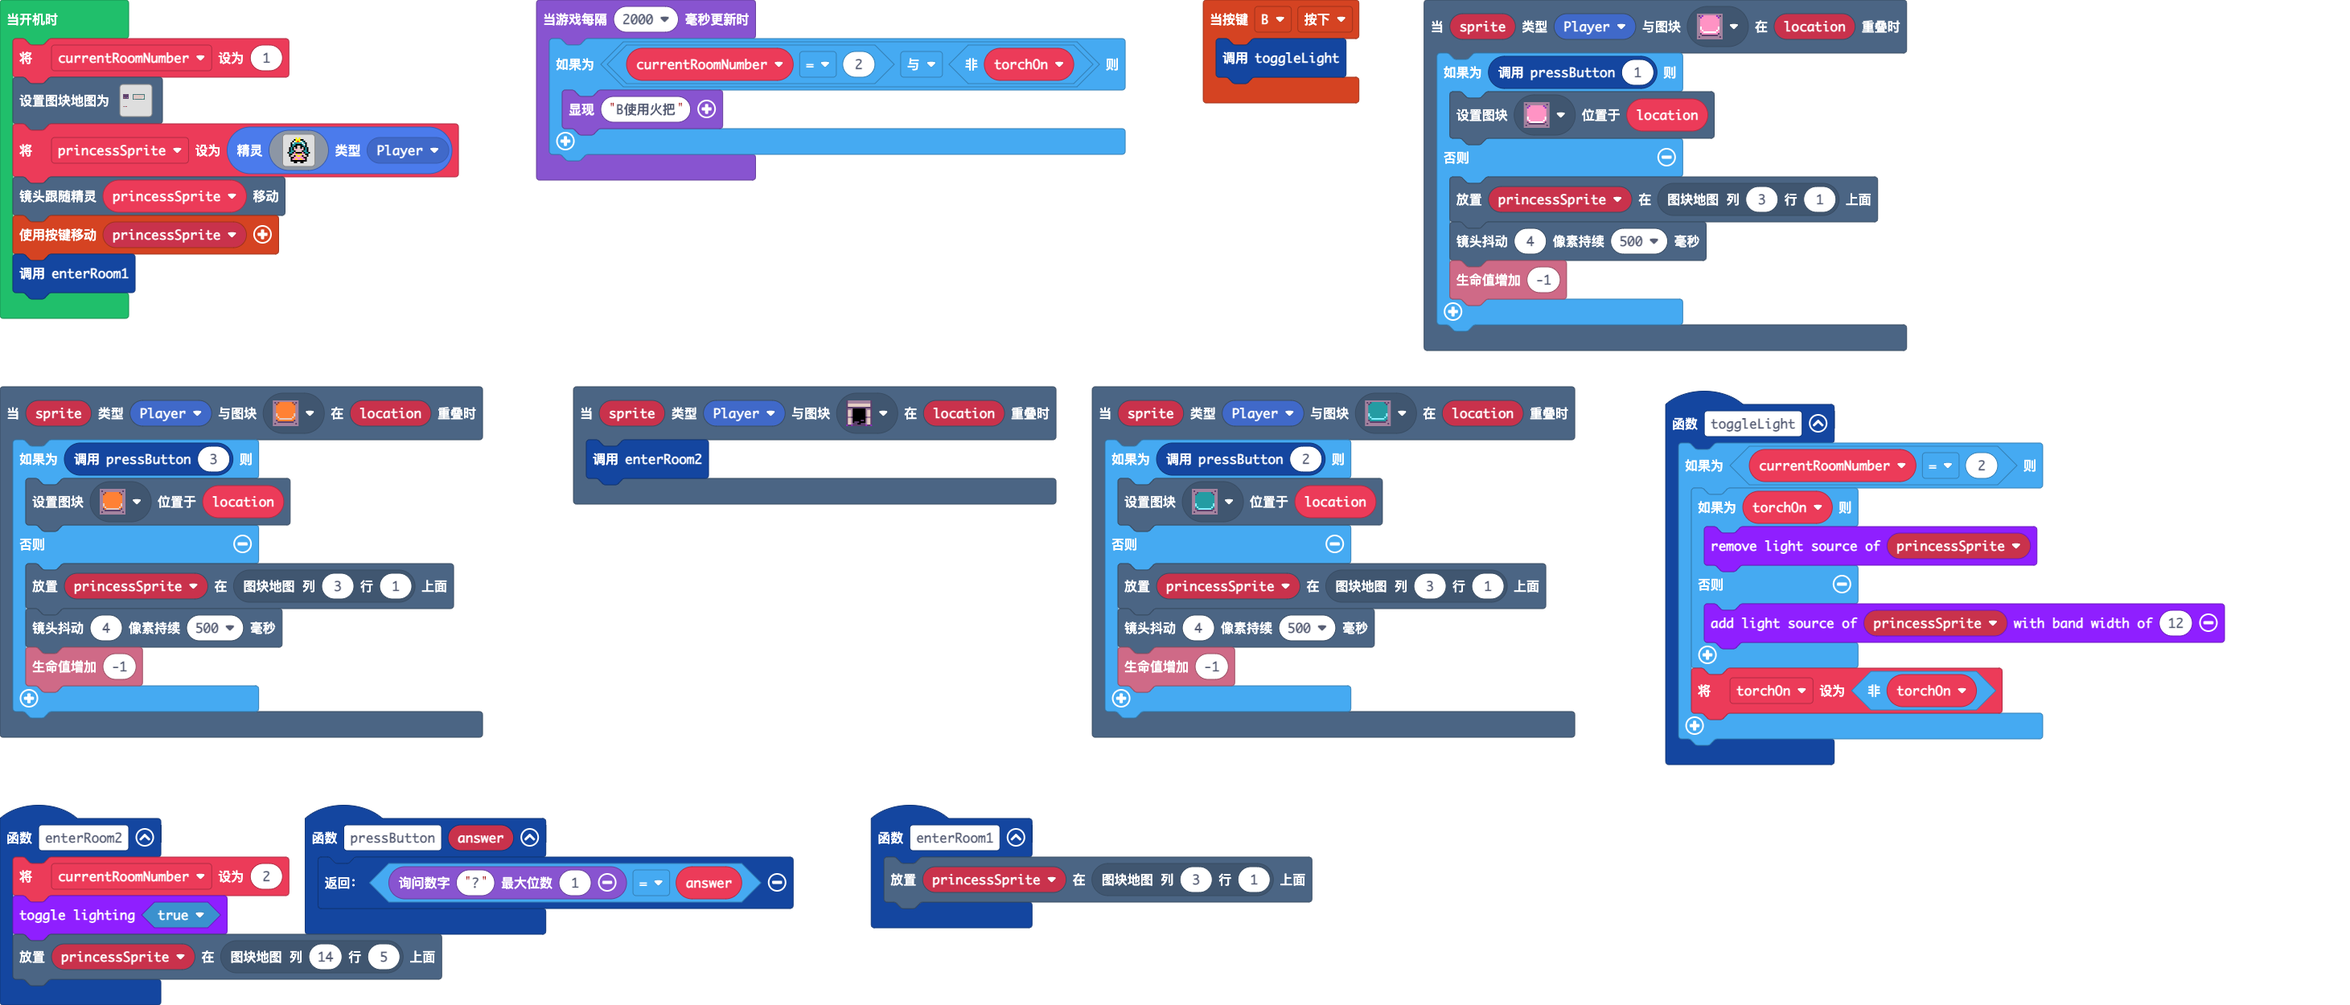
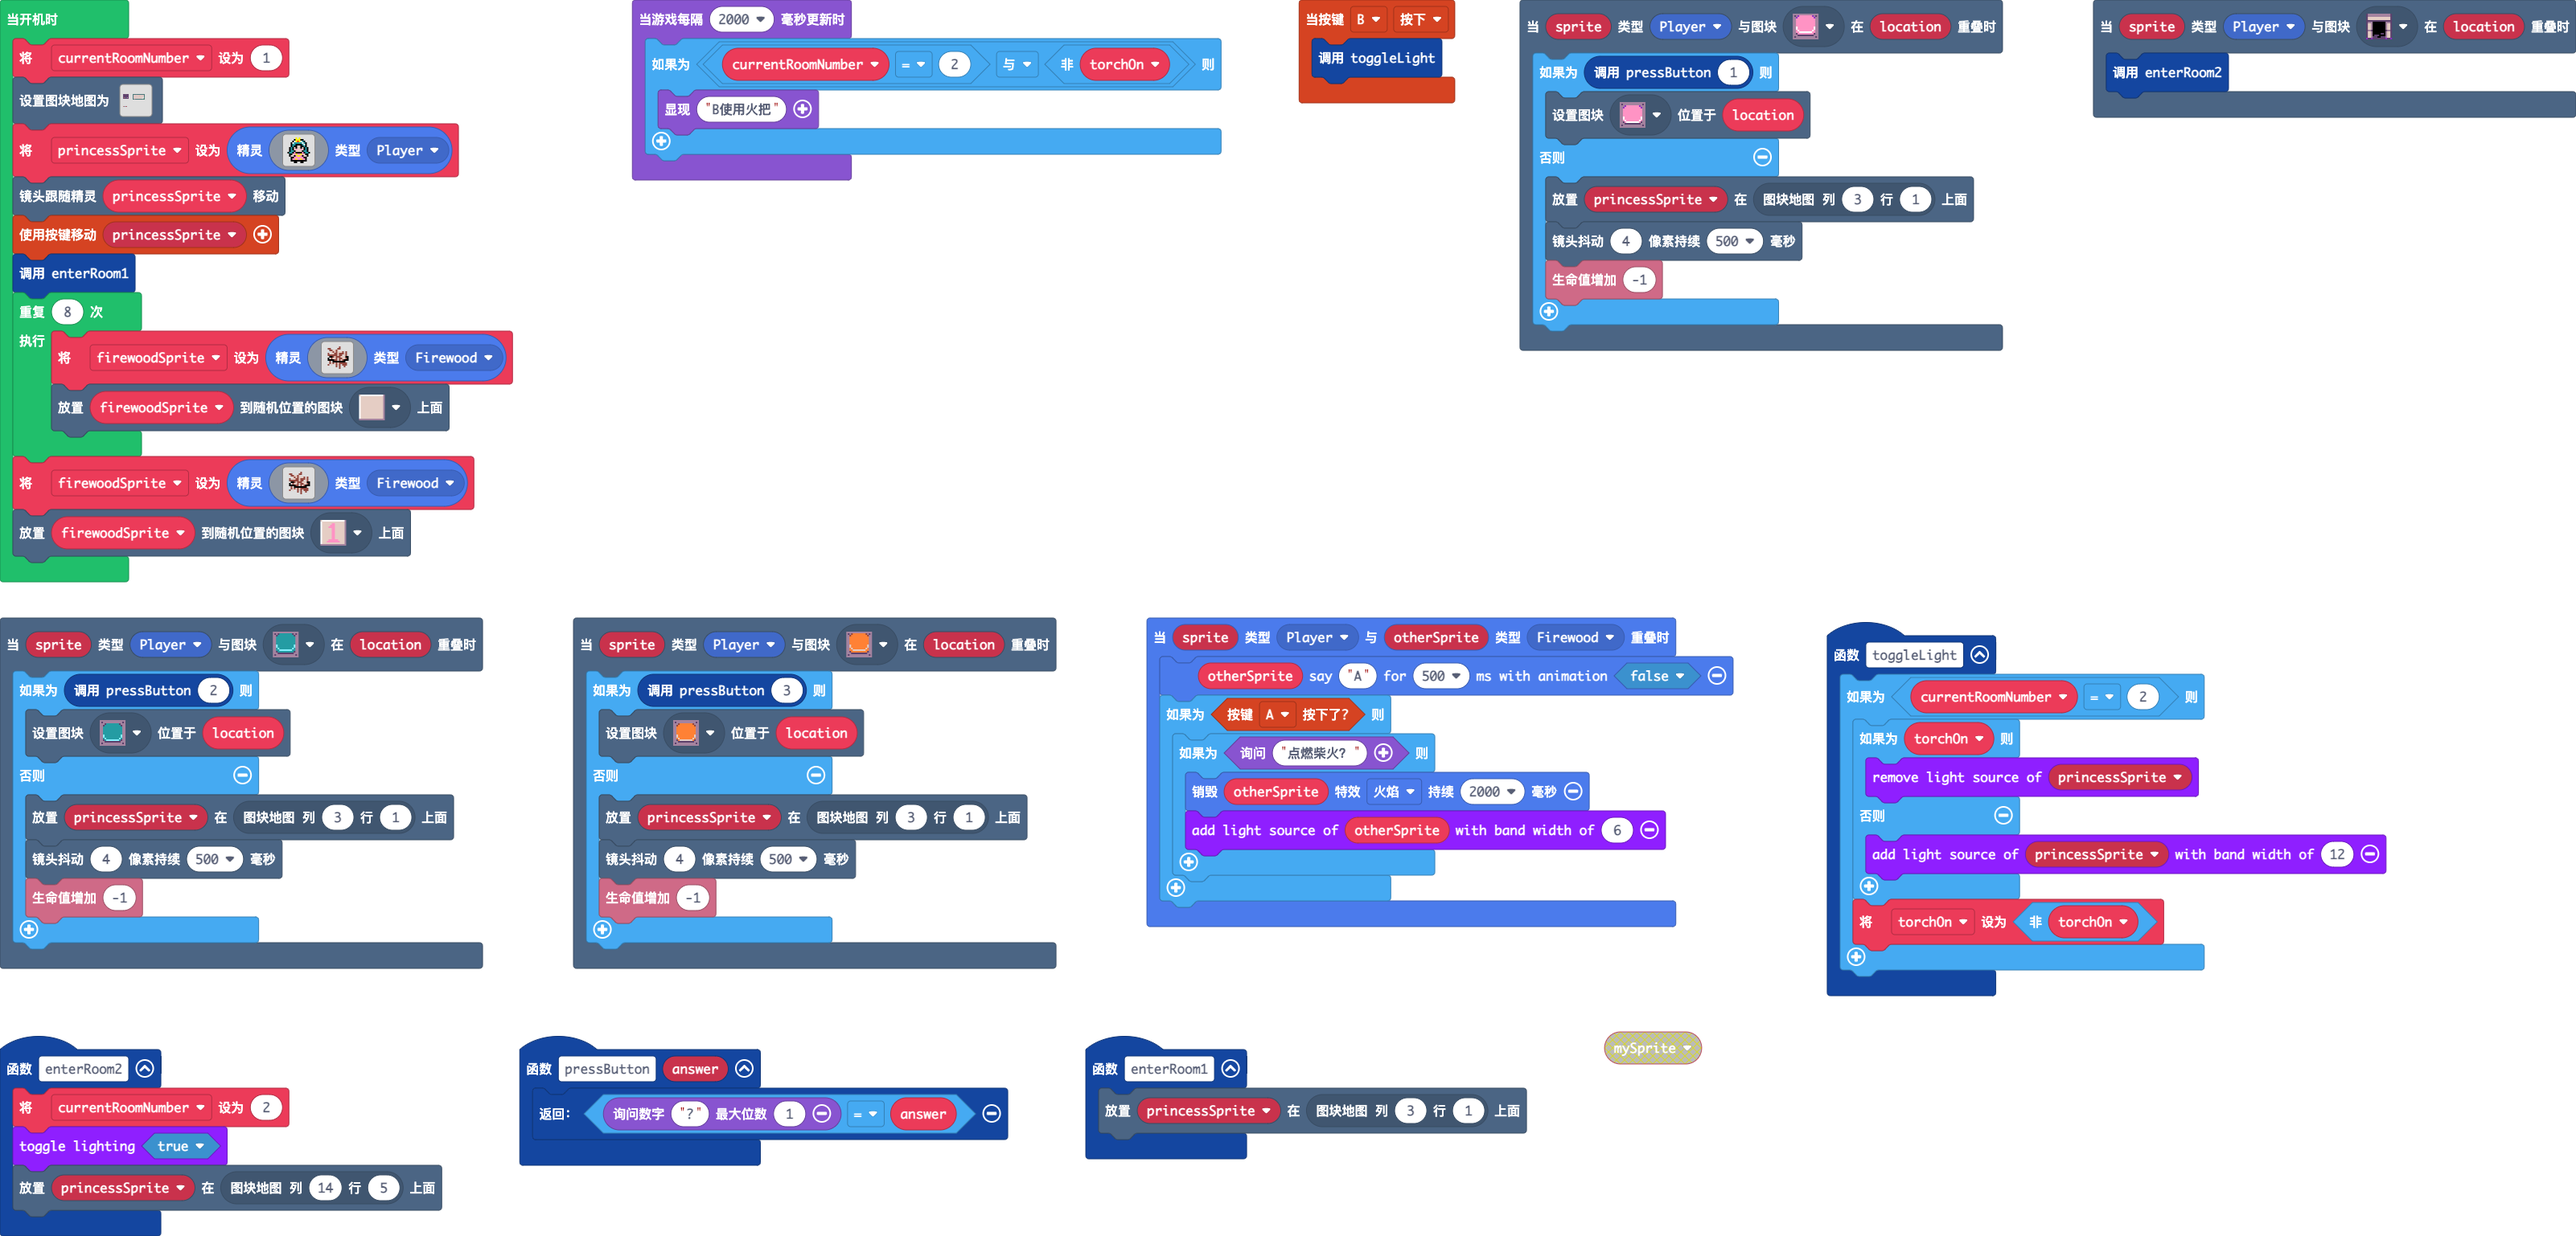
更新 pxt.json, main.blocks, main.ts, tilemap.g.jres, tilemap.g.ts

diff --git a/main.ts b/main.ts
@@ -1,3 +1,6 @@
+namespace SpriteKind {
+    export const Firewood = SpriteKind.create()
+}
 scene.onOverlapTile(SpriteKind.Player, sprites.dungeon.buttonPink, function (sprite, location) {
     if (pressButton(1)) {
         tiles.setTileAt(location, sprites.dungeon.buttonPinkDepressed)
@@ -25,6 +28,15 @@ function toggleLight () {
         torchOn = !(torchOn)
     }
 }
+sprites.onOverlap(SpriteKind.Player, SpriteKind.Firewood, function (sprite, otherSprite) {
+    otherSprite.sayText("A", 500, false)
+    if (controller.A.isPressed()) {
+        if (game.ask("点燃柴火？")) {
+            otherSprite.destroy(effects.fire, 2000)
+            multilights.addLightSource(otherSprite, 6)
+        }
+    }
+})
 function enterRoom1 () {
     tiles.placeOnTile(princessSprite, tiles.getTileLocation(3, 1))
 }
@@ -53,6 +65,7 @@ scene.onOverlapTile(SpriteKind.Player, sprites.dungeon.buttonTeal, function (spr
     }
 })
 let torchOn = false
+let firewoodSprite: Sprite = null
 let princessSprite: Sprite = null
 let currentRoomNumber = 0
 currentRoomNumber = 1
@@ -78,6 +91,46 @@ princessSprite = sprites.create(img`
 scene.cameraFollowSprite(princessSprite)
 controller.moveSprite(princessSprite)
 enterRoom1()
+for (let index = 0; index < 8; index++) {
+    firewoodSprite = sprites.create(img`
+        . . . . . . . . . . . . . . . . 
+        . . . . . . . . . e . . . . . . 
+        . . e e . . . . e e . . . . . . 
+        . . . e e d d e d . . . . . . . 
+        . . . . d e d e d d d e . e . . 
+        . . e . d d e e d e e e d e . . 
+        . . e e e e e e d e e . d e . . 
+        . . . f f e d e e e d d d f f . 
+        . . f . e d d e d e e d d e f . 
+        . . f f f f e e . e d e f f f . 
+        . . . e . f f f f f f f f . . . 
+        . . . e d e d e d e e e e e . . 
+        . . e . d . . e d e . e e e . . 
+        . . . . . . . e . e . . e . . . 
+        . . . . . . . . . e . . . . . . 
+        . . . . . . . . . . . . . . . . 
+        `, SpriteKind.Firewood)
+    tiles.placeOnRandomTile(firewoodSprite, sprites.dungeon.floorLight2)
+}
+firewoodSprite = sprites.create(img`
+    . . . . . . . . . . . . . . . . 
+    . . . . . . . . . e . . . . . . 
+    . . e e . . . . e e . . . . . . 
+    . . . e e d d e d . . . . . . . 
+    . . . . d e d e d d d e . e . . 
+    . . e . d d e e d e e e d e . . 
+    . . e e e e e e d e e . d e . . 
+    . . . f f e d e e e d d d f f . 
+    . . f . e d d e d e e d d e f . 
+    . . f f f f e e . e d e f f f . 
+    . . . e . f f f f f f f f . . . 
+    . . . e d e d e d e e e e e . . 
+    . . e . d . . e d e . e e e . . 
+    . . . . . . . e . e . . e . . . 
+    . . . . . . . . . e . . . . . . 
+    . . . . . . . . . . . . . . . . 
+    `, SpriteKind.Firewood)
+tiles.placeOnRandomTile(firewoodSprite, assets.tile`myTile`)
 game.onUpdateInterval(2000, function () {
     if (currentRoomNumber == 2 && !(torchOn)) {
         game.splash("B使用火把")

diff --git a/tilemap.g.ts b/tilemap.g.ts
@@ -49,6 +49,25 @@ namespace myTiles {
 ................................
 ................................
 `, [myTiles.transparency16,sprites.dungeon.darkGroundNorthWest0,sprites.dungeon.darkGroundNorthEast0,sprites.dungeon.darkGroundSouthWest0,sprites.dungeon.darkGroundSouth,sprites.dungeon.darkGroundSouthEast0,sprites.dungeon.darkGroundEast,sprites.dungeon.darkGroundWest,sprites.dungeon.darkGroundNorth,sprites.dungeon.darkGroundCenter,sprites.dungeon.buttonOrange,sprites.dungeon.buttonTeal,sprites.dungeon.buttonPink,sprites.dungeon.doorOpenNorth,sprites.dungeon.buttonOrangeDepressed,sprites.dungeon.buttonTealDepressed,sprites.dungeon.buttonPinkDepressed,sprites.dungeon.chestClosed,sprites.dungeon.chestOpen,sprites.dungeon.greenOuterNorthWest,sprites.dungeon.greenOuterNorth0,sprites.dungeon.greenOuterWest0,sprites.dungeon.greenOuterSouthEast,sprites.dungeon.greenOuterSouth1,sprites.dungeon.greenOuterEast0,sprites.dungeon.greenOuterNorthEast,sprites.dungeon.greenOuterSouthWest,sprites.dungeon.floorLight2,sprites.dungeon.stairNorth,sprites.dungeon.greenOuterEast2,sprites.dungeon.greenOuterSouth2,sprites.dungeon.greenSwitchUp,myTiles.tile1,myTiles.tile2,myTiles.tile3], TileScale.Sixteen);
+            case "级别3":
+            case "级别3":return tiles.createTilemap(hex`1000100000000000000000000000000000000000000000000000000000000000000000000000000000000000000000000000000000000000000000000000000000000000000000000000000000000000000000000000000000000000000000000000000000000000000000000000000000000000000000000000000000000000000000000000000000000000000000000000000000000000000000000000000000000000000000000000000000000000000000000000000000000000000000000000000000000000000000000000000000000000000000000000000000000000000000000000000000000000000000000000000000000000000000000000000000000000`, img`
+. . . . . . . . . . . . . . . . 
+. . . . . . . . . . . . . . . . 
+. . . . . . . . . . . . . . . . 
+. . . . . . . . . . . . . . . . 
+. . . . . . . . . . . . . . . . 
+. . . . . . . . . . . . . . . . 
+. . . . . . . . . . . . . . . . 
+. . . . . . . . . . . . . . . . 
+. . . . . . . . . . . . . . . . 
+. . . . . . . . . . . . . . . . 
+. . . . . . . . . . . . . . . . 
+. . . . . . . . . . . . . . . . 
+. . . . . . . . . . . . . . . . 
+. . . . . . . . . . . . . . . . 
+. . . . . . . . . . . . . . . . 
+. . . . . . . . . . . . . . . . 
+`, [myTiles.transparency16], TileScale.Sixteen);
         }
         return null;
     })
